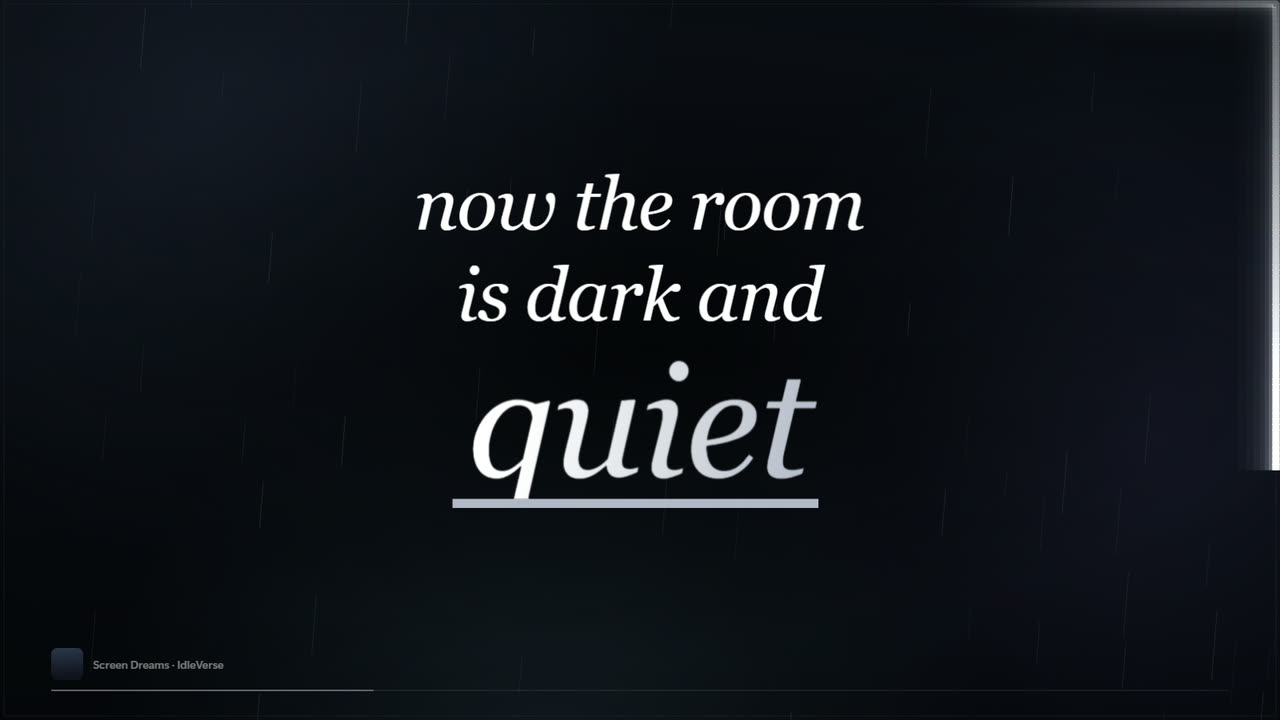
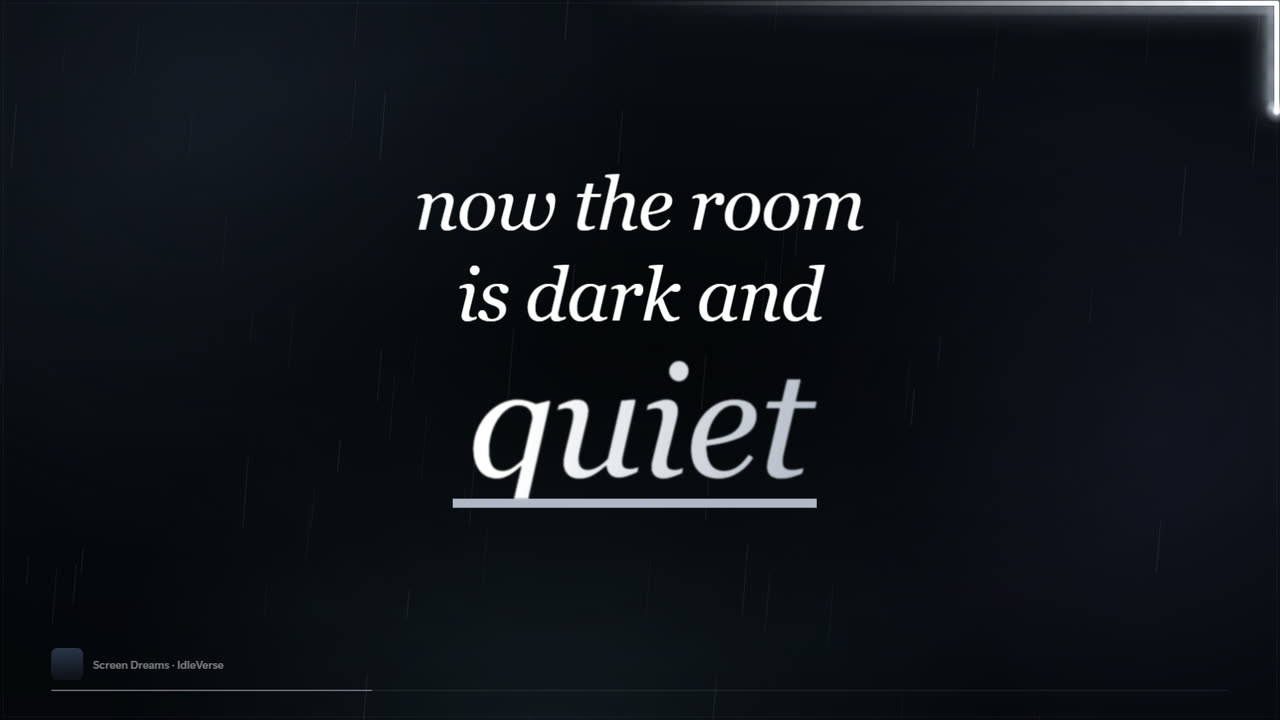
IdleVerse 1.3.2: smoother beam, sharper hype design
- Edge beam glow is now one blurred haze (drawn small, blurred once,
  stretched) instead of stacked bands; rounded head with a small dot.
- Hype design: Impact poster type, crisp album-colour offset shadow and
  a blade-cut bar under the key word, replacing the flat box.
- README screenshots and demo refreshed.

Changed region(s): [[0.5625, 0.0, 1.0, 0.6722], [0.3438, 0.275, 0.375, 0.3056]]

diff --git a/src/renderer/saver.js b/src/renderer/saver.js
@@ -237,11 +237,18 @@ const fx = (() => {
 // One thick glowing beam running round the very edge of the screen, bending round each
 // corner as it turns. Its speed follows the song: quicker when the words come fast, a
 // surge on every word (bigger on the key word), a slow glide in breaks, and still when paused.
+//
+// The glow is drawn on a tiny canvas, blurred once and stretched to full size, which gives
+// one smooth haze (no visible bands) for very little work. The crisp white core is drawn on
+// top at full resolution, with a rounded head and a small glowing dot leading the way.
 const frame = (() => {
   const canvas = $('frame'), ctx = canvas.getContext('2d');
+  const S = 6;                                                   // glow canvas is 1/6 size
+  const small = document.createElement('canvas'), sctx = small.getContext('2d');
+  const soft = document.createElement('canvas'), bctx = soft.getContext('2d');
   // Laps of the screen per second at a normal pace, per vibe.
   const BASE = { sad: 0.016, dreamy: 0.022, happy: 0.042, hype: 0.048, electric: 0.056, intense: 0.062 };
-  let w = 0, h = 0, colour = 'hsl(0 0% 70%)';
+  let w = 0, h = 0, colour = 'hsl(0 0% 70%)', dot = null;
   let pos = Math.random(), speed = 0, rate = 0.8, rateTarget = 0.8, energy = 0;
   let last = performance.now(), settled = false;
 
@@ -250,11 +257,24 @@ const frame = (() => {
     w = innerWidth; h = innerHeight;
     canvas.width = Math.round(w * dpr); canvas.height = Math.round(h * dpr);
     ctx.setTransform(dpr, 0, 0, dpr, 0, 0);
+    small.width = soft.width = Math.ceil(w / S); small.height = soft.height = Math.ceil(h / S);
     settled = false;
   }
   addEventListener('resize', resize); resize();
 
-  function setColour(c) { colour = c; settled = false; }
+  function setColour(c) {
+    colour = c;
+    dot = document.createElement('canvas');                      // the little glowing dot at the head
+    dot.width = dot.height = 64;
+    const g = dot.getContext('2d'), grad = g.createRadialGradient(32, 32, 0, 32, 32, 32);
+    grad.addColorStop(0, 'rgba(255,255,255,1)');
+    grad.addColorStop(0.22, 'rgba(255,255,255,.9)');
+    grad.addColorStop(0.45, c.replace(')', ' / .55)'));
+    grad.addColorStop(1, c.replace(')', ' / 0)'));
+    g.fillStyle = grad; g.fillRect(0, 0, 64, 64);
+    settled = false;
+  }
+  setColour(colour);
 
   const kick = (a) => { energy = Math.min(1.6, energy + a); };
   const setFlow = (wordsPerSec) => { rateTarget = Math.max(0.2, Math.min(5, wordsPerSec)); };
@@ -270,7 +290,7 @@ const frame = (() => {
     pos = (pos + speed * dt) % 1;
     if (paused && speed < 1e-4 && energy < 0.01) { if (settled) return; settled = true; } else settled = false;
 
-    const m = 5;                                  // the beam's core sits flush with the screen edge
+    const m = 4;                                  // the core sits flush with the screen edge
     const W = w - 2 * m, H = h - 2 * m, P = 2 * (W + H);
     const corners = [[m, m, 0], [m + W, m, W], [m + W, m + H, W + H], [m, m + H, 2 * W + H]];
     const pt = (s) => {
@@ -280,40 +300,53 @@ const frame = (() => {
       if (s < 2 * W + H) return [m + W - (s - W - H), m + H];
       return [m, m + H - (s - 2 * W - H)];
     };
-    const seg = (a, b) => {                       // path from a to b along the frame, turning corners
-      ctx.moveTo(...pt(a));
+    const seg = (c, a, b, k = 1) => {             // path from a to b along the frame, turning corners
+      const [ax, ay] = pt(a); c.moveTo(ax * k, ay * k);
       for (const [x, y, cs] of corners) {
-        for (const k of [cs, cs + P, cs - P]) if (k > a && k < b) ctx.lineTo(x, y);
+        for (const q of [cs, cs + P, cs - P]) if (q > a && q < b) c.lineTo(x * k, y * k);
       }
-      ctx.lineTo(...pt(b));
+      const [bx, by] = pt(b); c.lineTo(bx * k, by * k);
     };
 
-    ctx.clearRect(0, 0, w, h);
-    ctx.strokeStyle = colour;
-    ctx.globalAlpha = 0.08; ctx.lineWidth = 1;
-    ctx.strokeRect(m, m, W, H);
-
-    // One thick, glowing beam travelling clockwise; it wraps round the corners as it goes.
     const bright = 0.8 + Math.min(0.2, energy * 0.25);
     const head = pos * P;
     const tail = P * (0.2 + 0.06 * Math.min(1, energy));
     const N = Math.min(140, Math.max(40, Math.round(tail / 7)));   // ~7px steps so the fade is smooth
+    const fadeAt = (j) => Math.pow(1 - j / N, 1.4) * bright;
+
+    // 1) Glow: draw the tail small, blur it once, stretch it over the screen.
+    sctx.clearRect(0, 0, small.width, small.height);
+    sctx.strokeStyle = colour; sctx.lineCap = 'butt'; sctx.lineJoin = 'round'; sctx.lineWidth = 26 / S;
+    for (let j = 0; j < N; j++) {
+      sctx.beginPath(); seg(sctx, head - (tail * (j + 1)) / N, head - (tail * j) / N, 1 / S);
+      sctx.globalAlpha = fadeAt(j); sctx.stroke();
+    }
+    bctx.clearRect(0, 0, soft.width, soft.height);
+    bctx.filter = `blur(${(14 / S).toFixed(2)}px)`;
+    bctx.drawImage(small, 0, 0);
+    bctx.filter = 'none';
+
+    ctx.clearRect(0, 0, w, h);
+    ctx.strokeStyle = colour; ctx.globalAlpha = 0.08; ctx.lineWidth = 1;
+    ctx.strokeRect(m, m, W, H);                    // the faint frame the beam runs along
+
     ctx.globalCompositeOperation = 'lighter';
-    ctx.lineCap = 'butt'; ctx.lineJoin = 'round';      // segments butt together without bright beads
-    // Stacked strokes, widest and faintest first, give a soft glow that fades in from the edge.
-    // The wide faint layers are drawn in coarser steps; nobody can see banding that faint.
-    const pass = (n, layers) => {
-      for (let j = 0; j < n; j++) {
-        const a = head - (tail * (j + 1)) / n, b = head - (tail * j) / n;
-        const fade = Math.pow(1 - j / n, 1.4) * bright;
-        ctx.beginPath(); seg(a, b);
-        for (const [lw, alpha, col] of layers) {
-          ctx.strokeStyle = col; ctx.globalAlpha = fade * alpha; ctx.lineWidth = lw; ctx.stroke();
-        }
-      }
-    };
-    pass(Math.ceil(N / 2), [[96, 0.035, colour], [74, 0.045, colour], [56, 0.065, colour], [40, 0.09, colour]]);
-    pass(N, [[28, 0.16, colour], [18, 0.3, colour], [9, 1, '#fff']]);                // glow + hot white core
+    ctx.imageSmoothingEnabled = true;
+    ctx.globalAlpha = 0.95; ctx.drawImage(soft, 0, 0, soft.width * S, soft.height * S);
+    ctx.globalAlpha = 0.5;  ctx.drawImage(small, 0, 0, small.width * S, small.height * S);   // tighter inner glow
+
+    // 2) Core: a crisp white line that fades along the tail, with a rounded head.
+    ctx.strokeStyle = '#fff'; ctx.lineCap = 'butt'; ctx.lineJoin = 'round'; ctx.lineWidth = 6;
+    for (let j = 0; j < N; j++) {
+      ctx.beginPath(); seg(ctx, head - (tail * (j + 1)) / N, head - (tail * j) / N);
+      ctx.globalAlpha = fadeAt(j); ctx.stroke();
+    }
+    const [hx, hy] = pt(head);
+    ctx.globalAlpha = bright; ctx.fillStyle = '#fff';
+    ctx.beginPath(); ctx.arc(hx, hy, 3, 0, Math.PI * 2); ctx.fill();
+    const r = 15 + 7 * Math.min(1, energy);
+    ctx.globalAlpha = 0.9 * bright; ctx.drawImage(dot, hx - r, hy - r, r * 2, r * 2);
+
     ctx.globalCompositeOperation = 'source-over';
     ctx.globalAlpha = 1;
   }

diff --git a/src/renderer/style.css b/src/renderer/style.css
@@ -65,6 +65,7 @@ body.paused #frame { opacity: .45; }
 /* ============ kinetic typography: per-vibe type system ============ */
 body {
   --mono: "Cascadia Mono", "SF Mono", Menlo, Consolas, monospace;
+  --poster: Impact, Haettenschweiler, "Franklin Gothic Heavy", "Arial Narrow", sans-serif;   /* on every Windows + Mac */
   --cond: Bahnschrift, "Avenir Next Condensed", "DIN Condensed", "Arial Narrow", Impact, sans-serif;
   --hero-font: var(--display); --hero-weight: 800; --hero-style: normal; --hero-case: none; --hero-track: -0.035em; --hero-stretch: normal;
   --mid-font: var(--display);  --mid-weight: 600;  --mid-style: normal;  --mid-case: none;  --mid-track: -0.015em; --mid-stretch: normal;
@@ -80,8 +81,9 @@ body {
 .vibe-intense  { --hero-font: var(--cond); --hero-weight: 700; --hero-case: uppercase; --hero-track: 0; --hero-stretch: 75%;
                  --mid-font: var(--cond); --mid-weight: 600; --mid-case: uppercase; --mid-track: .02em; --mid-stretch: 75%;
                  --hero-fill: linear-gradient(#fff, #fff); --dur: .22s; --ease: cubic-bezier(.2, .9, .3, 1.15); }
-.vibe-hype     { --hero-weight: 900; --hero-case: uppercase; --hero-track: -0.02em; --mid-weight: 800; --mid-case: uppercase;
-                 --hero-fill: linear-gradient(#0b0b0b, #0b0b0b); --dur: .28s; --ease: cubic-bezier(.2, .9, .25, 1); }
+.vibe-hype     { --hero-font: var(--poster); --hero-weight: 400; --hero-case: uppercase; --hero-track: .01em;
+                 --mid-font: var(--poster); --mid-weight: 400; --mid-case: uppercase; --mid-track: .03em;
+                 --dur: .28s; --ease: cubic-bezier(.2, .9, .25, 1); }
 .vibe-dreamy   { --hero-weight: 200; --hero-case: lowercase; --hero-track: -0.03em; --mid-weight: 300; --mid-case: lowercase;
                  --small-case: lowercase; --hero-fill: linear-gradient(100deg, #fff 30%, var(--c1)); --dur: 1.1s; --ease: cubic-bezier(.2, .8, .2, 1); }
 .vibe-electric { --hero-weight: 900; --hero-style: italic; --hero-case: uppercase; --mid-style: italic; --mid-weight: 700;
@@ -135,8 +137,16 @@ body {
 .d-underline .r-hero.lit .deco { transform: scaleX(1); }
 .d-bar .r-hero .deco { left: -.15em; right: -.15em; top: 18%; bottom: 14%; background: var(--c1); opacity: .9; transform: scaleX(0); transform-origin: left; transition: transform calc(var(--dur) * 1.4) var(--ease); mix-blend-mode: normal; }
 .d-bar .r-hero.lit .deco { transform: scaleX(1); }
-.d-box .r-hero .deco { inset: .02em -.12em -.02em -.12em; background: var(--c1); border-radius: .06em; transform: scaleX(0) skewX(-6deg); transform-origin: left; transition: transform var(--dur) var(--ease); }
-.d-box .r-hero.lit .deco { transform: scaleX(1) skewX(-6deg); }
+/* "box" (hype): a sharp blade-cut bar under the key word, plus a thin hairline that overshoots. */
+.d-box .r-hero .deco {
+  left: -.06em; right: -.06em; bottom: -.08em; height: .11em; background: var(--c1);
+  clip-path: polygon(0 0, 100% 0, calc(100% - .14em) 100%, 0 100%);
+  transform: scaleX(0); transform-origin: left; transition: transform calc(var(--dur) * 1.5) var(--ease);
+}
+.d-box .r-hero .deco::after {
+  content: ""; position: absolute; left: 0; right: -.6em; top: -.05em; height: 1px; background: rgba(255,255,255,.6);
+}
+.d-box .r-hero.lit .deco { transform: scaleX(1); }
 .ring { position: absolute; left: -12%; top: -22%; width: 124%; height: 144%; z-index: -1; overflow: visible; }
 .ring ellipse { fill: none; stroke: var(--c1); stroke-width: 1.4; vector-effect: non-scaling-stroke; stroke-dasharray: 1; stroke-dashoffset: 1; transition: stroke-dashoffset calc(var(--dur) * 2.2) var(--ease) .1s; }
 .r-hero.lit .ring ellipse { stroke-dashoffset: 0; }
@@ -157,6 +167,10 @@ body {
 
 /* Vibe-specific finishing touches */
 .vibe-electric .r-hero .w { background: none; color: #fff; text-shadow: 0 0 .1em var(--c1), 0 0 .5em var(--c1); }
+/* Hype: crisp white poster type with a hard, zero-blur offset in the album colour. */
+.vibe-hype .r-hero .w { background: none; color: #fff; text-shadow: .035em .035em 0 var(--c1); }
+.vibe-hype .r-hero { line-height: .92; margin-bottom: .16em; }
+.vibe-hype .r-mid { line-height: 1; }
 .vibe-intense #current.shake { animation: shake .28s linear; }
 @keyframes shake {
   20% { transform: translate(-6px, 3px); } 40% { transform: translate(5px, -4px); }

diff --git a/README.md b/README.md
@@ -122,7 +122,7 @@ Every song gets the design that fits it, and the backlight, glow and accents are
 </tr>
 <tr>
 <td><img src="assets/readme/vibe-intense.jpg" alt="Intense vibe"><p align="center"><b>🤘 Intense</b> · condensed capitals that hit with a shake and a slash of colour</p></td>
-<td><img src="assets/readme/vibe-hype.jpg" alt="Hype vibe"><p align="center"><b>🔥 Hype</b> · tilted heavy captions with the key word stamped in a box</p></td>
+<td><img src="assets/readme/vibe-hype.jpg" alt="Hype vibe"><p align="center"><b>🔥 Hype</b> · sharp Impact poster type with a hard colour offset and a blade-cut bar</p></td>
 </tr>
 <tr>
 <td><img src="assets/readme/vibe-dreamy.jpg" alt="Dreamy vibe"><p align="center"><b>☁ Dreamy</b> · thin lowercase that floats in slowly, soft glowing orbs</p></td>
